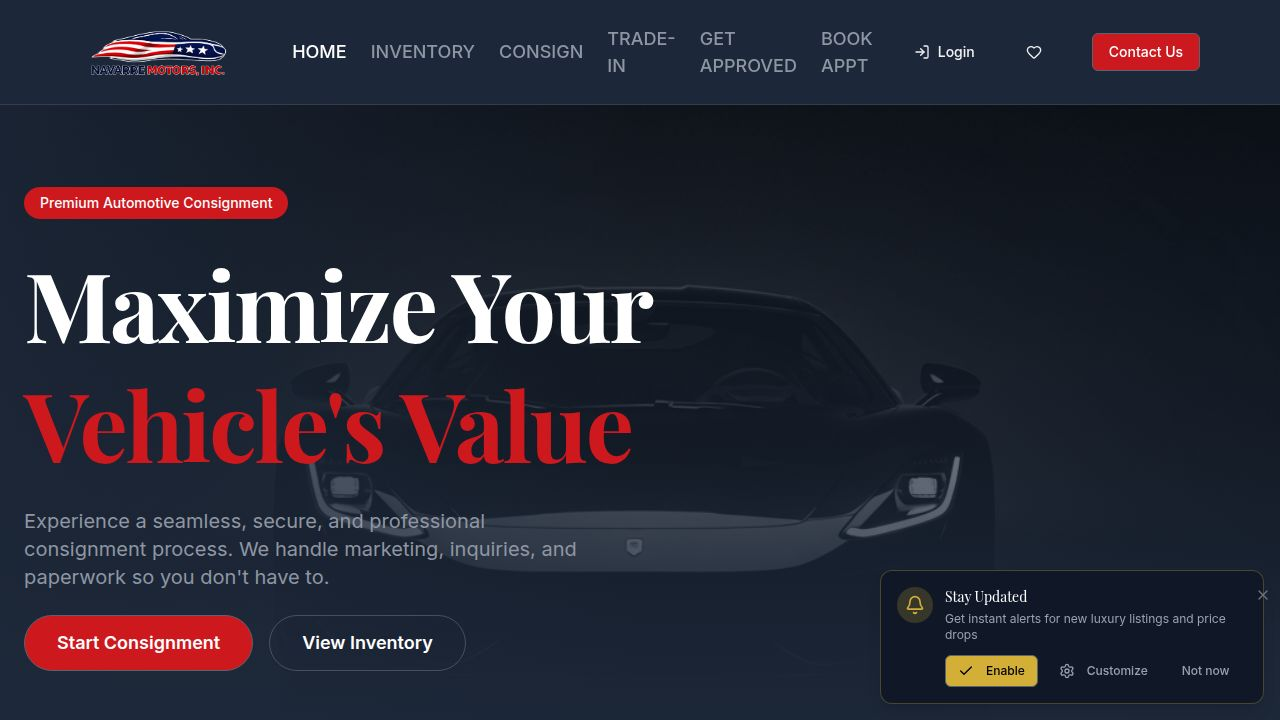
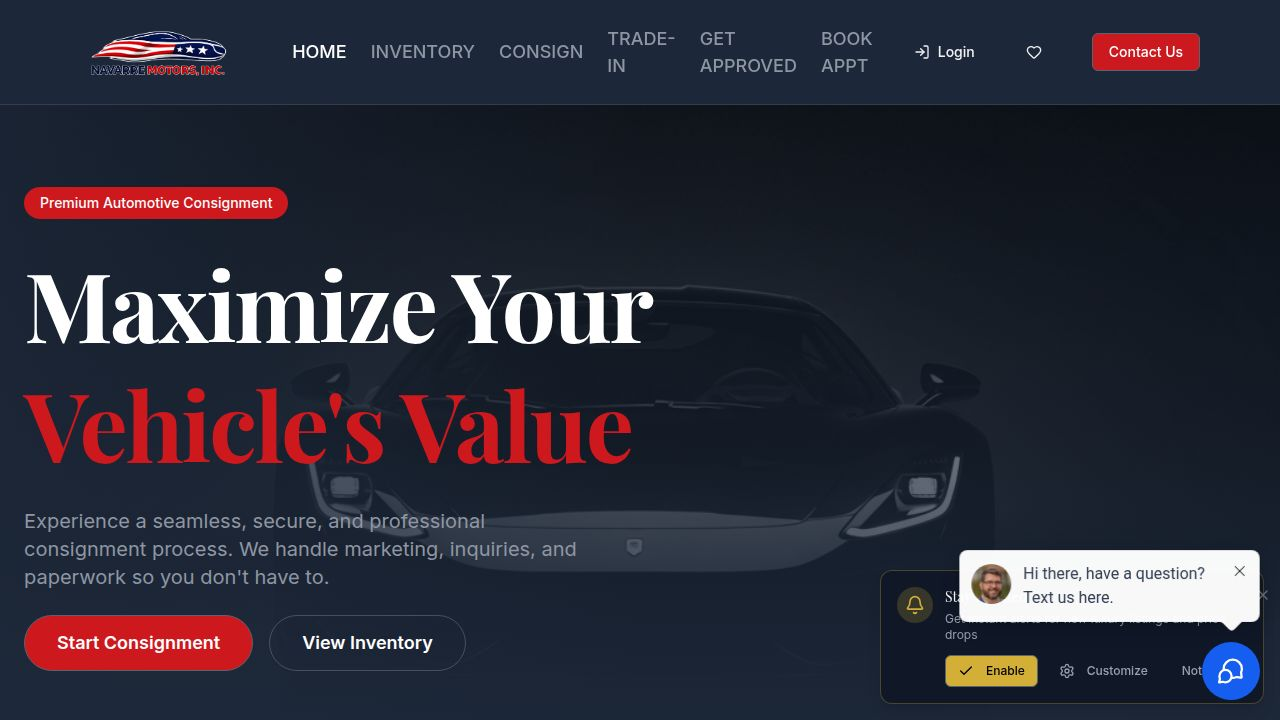
Add automatic database schema updates for site settings
Includes a new auto-migration function to ensure the `site_settings` table has all necessary columns, including `live_chat_widget_id`, before the application starts.

Replit-Commit-Author: Agent
Replit-Commit-Session-Id: bc98085c-f7fb-48ae-a5b9-5208d98b7f68
Replit-Commit-Checkpoint-Type: full_checkpoint
Replit-Commit-Event-Id: 7721a6cb-b443-4590-983f-3942b8ef9d7c
Replit-Commit-Screenshot-Url: https://storage.googleapis.com/screenshot-production-us-central1/47449de9-d5d8-4a5c-9e45-dc5ba463f1c8/bc98085c-f7fb-48ae-a5b9-5208d98b7f68/cgeNKLG
Replit-Helium-Checkpoint-Created: true

Changed region(s): [[0.75, 0.7639, 1.0, 0.9778]]

diff --git a/server/index.ts b/server/index.ts
@@ -5,6 +5,7 @@ import { createServer } from "http";
 import session from "express-session";
 import MemoryStore from "memorystore";
 import path from "path";
+import { pool } from "./db";
 
 const app = express();
 const httpServer = createServer(app);
@@ -96,9 +97,50 @@ app.use((req, res, next) => {
   next();
 });
 
+async function autoMigrateSiteSettings() {
+  console.log("[migrate] Checking site_settings schema...");
+  try {
+    const client = await pool.connect();
+    try {
+      // Check and add missing columns to site_settings table
+      const columnsToCheck = [
+        { name: "live_chat_enabled", type: "BOOLEAN DEFAULT FALSE" },
+        { name: "live_chat_widget_id", type: "TEXT" },
+        { name: "footer_logo_width", type: "TEXT" },
+        { name: "mobile_logo_width", type: "TEXT" },
+        { name: "slug_include_location", type: "BOOLEAN DEFAULT TRUE" },
+        { name: "slug_location_first", type: "BOOLEAN DEFAULT FALSE" },
+        { name: "slug_include_stock", type: "BOOLEAN DEFAULT FALSE" },
+        { name: "hot_listing_threshold", type: "INTEGER DEFAULT 5" },
+      ];
+      
+      for (const col of columnsToCheck) {
+        const checkResult = await client.query(`
+          SELECT column_name FROM information_schema.columns 
+          WHERE table_name = 'site_settings' AND column_name = $1
+        `, [col.name]);
+        
+        if (checkResult.rows.length === 0) {
+          console.log(`[migrate] Adding missing column: ${col.name}`);
+          await client.query(`ALTER TABLE site_settings ADD COLUMN IF NOT EXISTS ${col.name} ${col.type}`);
+        }
+      }
+      console.log("[migrate] Site settings schema up to date");
+    } finally {
+      client.release();
+    }
+  } catch (error) {
+    console.error("[migrate] Error checking/updating schema:", error);
+  }
+}
+
 (async () => {
   await registerRoutes(httpServer, app);
   await initializeDefaultAdmin();
+  
+  // Auto-migrate: ensure all site_settings columns exist
+  await autoMigrateSiteSettings();
+  
   await seedDatabaseFromConfig();
   await autoBackfillSlugs();
 
